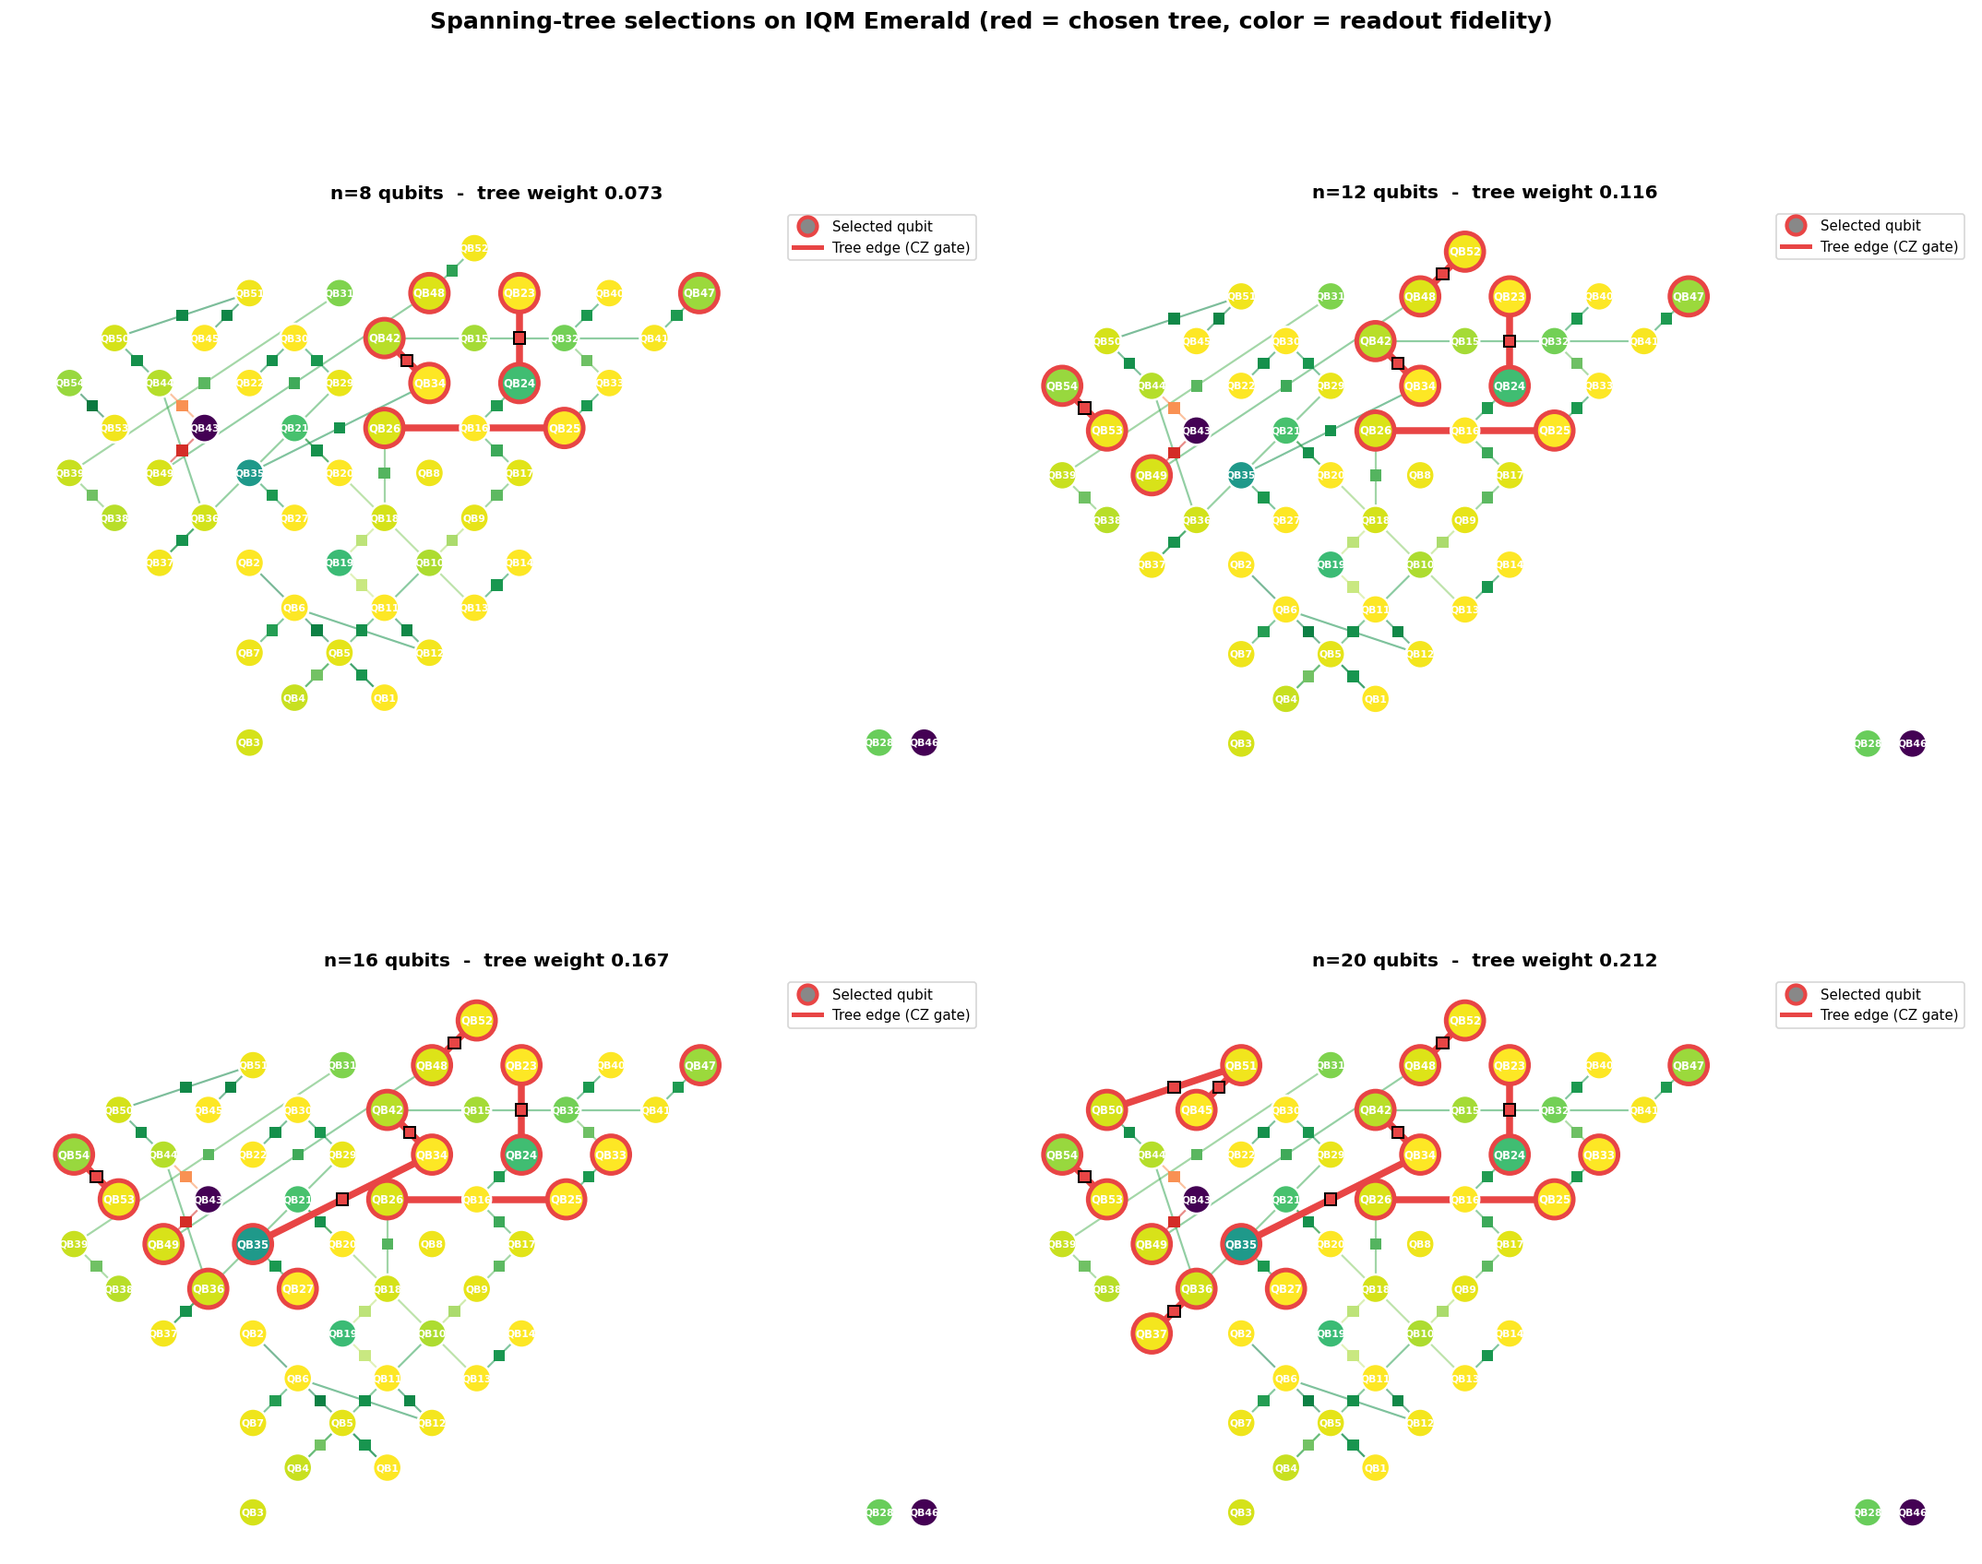
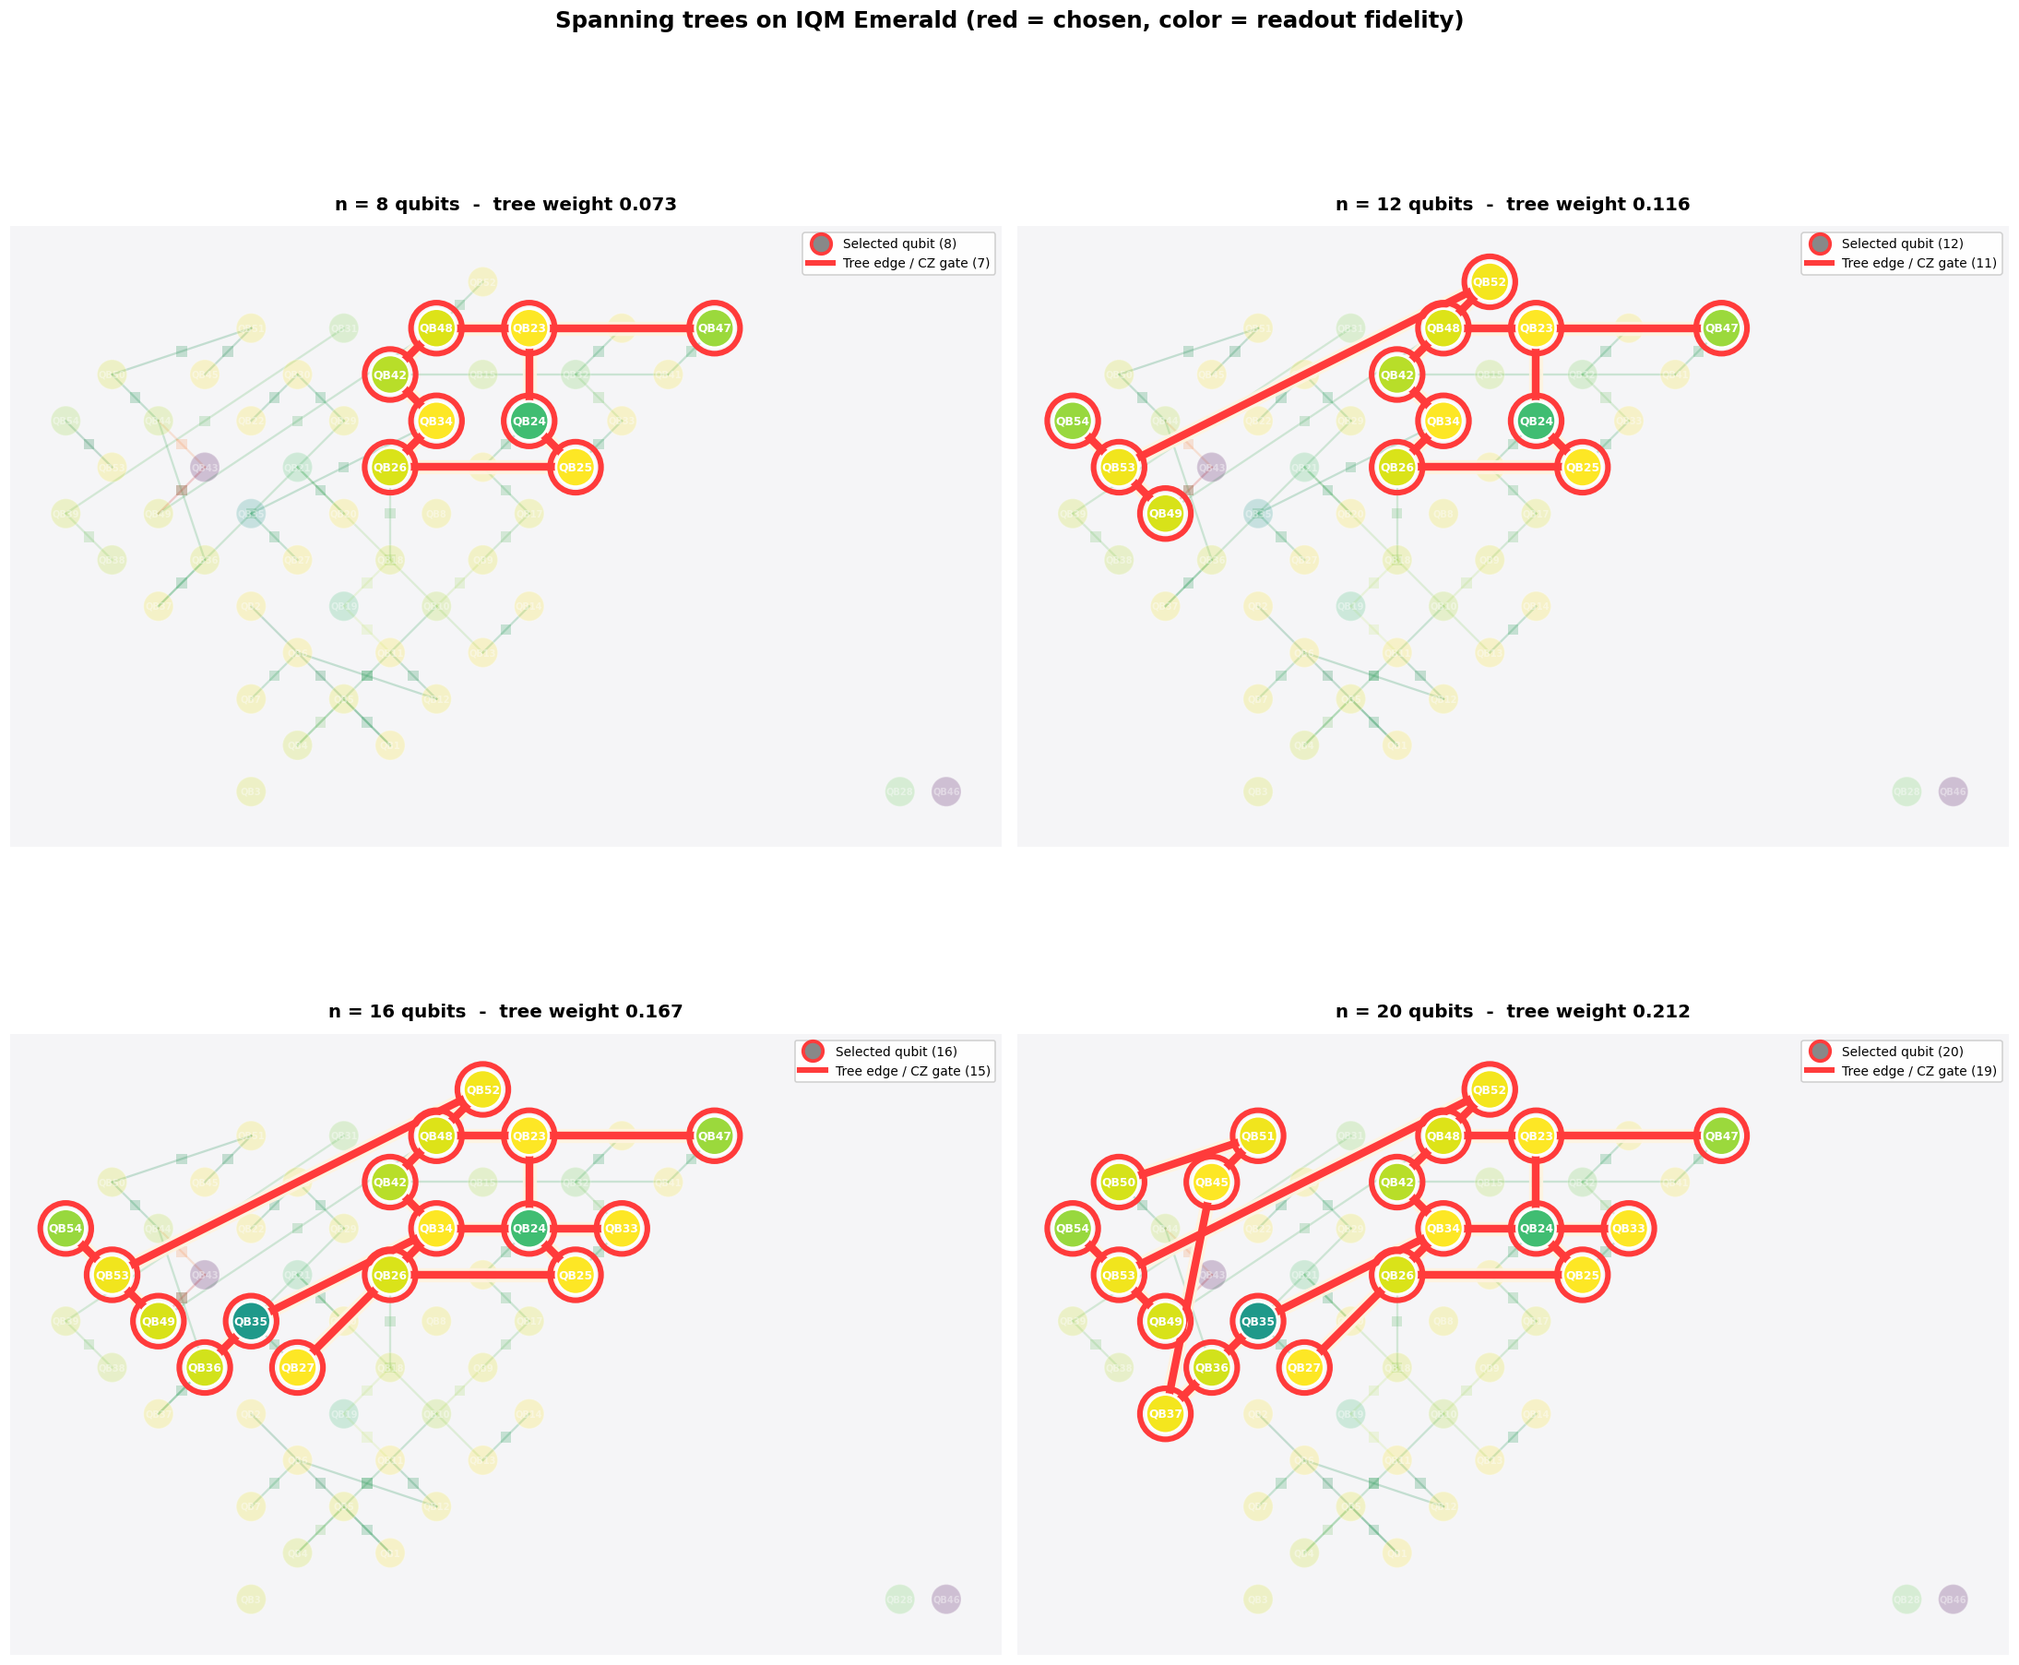
Improve topology viz: spotlight effect + scaling animation
src/visualization.py changes:
- Spotlight mode: fade unselected qubits/edges to alpha 0.22 so the
  highlighted tree stands out as a clearly connected structure
- Tree edges drawn with white halo + bright red core, layered above
  background via zorder, eliminating visual confusion about connectivity
- Highlighted qubits get a red ring + colored disc (instead of a thin border)
- New animate_tree_growth(): builds a GIF iterating over n values, showing
  how the chosen spanning tree grows on the device topology

Generated artifacts:
- experiments/gme_tree_topology.png: 2x2 static panel for n=8/12/16/20
- experiments/gme_tree_growth.gif: animation across n=4..24

diff --git a/src/visualization.py b/src/visualization.py
@@ -1,30 +1,27 @@
 """IQM-Resonance-style topology visualization.
 
-Colors qubits by a chosen metric (T1, T2, readout fidelity, 1Q fidelity).
-Highlights a chosen subset (the tree we picked) and the edges of the chosen
-graph state.
+Two main entry points:
+  - plot_device_topology(...)       static plot, optionally with a tree highlighted
+  - animate_tree_growth(...)        GIF showing how the chosen tree scales with n
 """
 
 from __future__ import annotations
+
+from collections import deque
 
 import matplotlib.pyplot as plt
 import matplotlib.patches as patches
 from matplotlib.lines import Line2D
 import numpy as np
-import rustworkx as rx
 
 
-# Hardcoded IQM Emerald qubit positions (54 qubits) — derived from a BFS over
-# the device coupling graph using diamond-grid offsets, with collision-aware
-# backtracking. Yields the rotated-square-lattice layout you see on the IQM
-# Resonance dashboard. Coordinates are in arbitrary units.
+# ---------- layout ----------
+
 def _device_layout(backend) -> dict[int, tuple[float, float]]:
-    """2D coordinates per qubit, computed once via a smart BFS that maps the
-    bipartite topology to a diamond grid. Each placed qubit's neighbours are
-    tried in 4 directions (NE, NW, SE, SW); we pick the direction that
-    minimises future placement conflicts (most-degrees-first heuristic).
+    """BFS-diamond layout: place qubits on a 45°-rotated grid by walking the
+    bipartite coupling graph and assigning (±1, ±1) offsets to each new
+    neighbour. Produces a clean planar embedding similar to the IQM dashboard.
     """
-    from collections import deque
     coupling: list[tuple[int, int]] = []
     seen: set[tuple[int, int]] = set()
     for a, b in backend.coupling_map:
@@ -44,7 +41,6 @@ def _device_layout(backend) -> dict[int, tuple[float, float]]:
 
     DIRS = [(1, 1), (-1, 1), (-1, -1), (1, -1)]   # NE, NW, SW, SE
 
-    # Start from a high-degree central qubit so the layout grows in all directions.
     start = max(adj, key=lambda x: len(adj[x]))
     pos: dict[int, tuple[int, int]] = {start: (0, 0)}
     used: set[tuple[int, int]] = {(0, 0)}
@@ -53,7 +49,6 @@ def _device_layout(backend) -> dict[int, tuple[float, float]]:
     while q:
         u = q.popleft()
         ux, uy = pos[u]
-        # Place each unplaced neighbour: pick first free diamond offset.
         for v in sorted(adj[u], key=lambda x: -len(adj.get(x, []))):
             if v in pos:
                 continue
@@ -66,7 +61,7 @@ def _device_layout(backend) -> dict[int, tuple[float, float]]:
                 q.append(v)
                 break
             else:
-                # All 4 diamond slots occupied — extend further out.
+                # All 4 diamond slots taken; spiral outwards
                 for r in range(2, 8):
                     placed = False
                     for dx, dy in [(r, 0), (-r, 0), (0, r), (0, -r),
@@ -81,10 +76,8 @@ def _device_layout(backend) -> dict[int, tuple[float, float]]:
                     if placed:
                         break
 
-    # Place any qubits not in the BFS-reached component (isolated/dangling).
     placed_set = set(pos.keys())
     isolated = [i for i in range(backend.num_qubits) if i not in placed_set]
-    # Find the bounding box of placed qubits
     if placed_set:
         max_x = max(p[0] for p in pos.values())
         for i, q_node in enumerate(isolated):
@@ -93,9 +86,36 @@ def _device_layout(backend) -> dict[int, tuple[float, float]]:
         for i, q_node in enumerate(isolated):
             pos[q_node] = (i, 0)
 
-    # Convert to floats
     return {k: (float(v[0]), float(v[1])) for k, v in pos.items()}
 
+
+# ---------- color helpers ----------
+
+def _color_for_metric(value: float | None, metric: str) -> tuple:
+    """Map a metric value to a viridis color. Returns gray if missing."""
+    if value is None:
+        return (0.8, 0.8, 0.8, 1.0)
+    if metric == "readout_fidelity":
+        norm = (value - 0.85) / 0.14
+    elif metric == "one_q_fidelity":
+        norm = (value - 0.99) / 0.01
+    elif metric == "t1":
+        norm = min((value * 1e6 - 5) / 95, 1.0)
+    elif metric == "t2":
+        norm = min((value * 1e6 - 1) / 49, 1.0)
+    else:
+        norm = float(value)
+    norm = max(0.0, min(1.0, norm))
+    return plt.cm.viridis(norm)
+
+
+def _cz_color(fid: float | None) -> tuple:
+    if fid is None:
+        return (0.78, 0.78, 0.78, 1.0)
+    return plt.cm.RdYlGn(max(0.0, min(1.0, (fid - 0.85) / 0.15)))
+
+
+# ---------- main static plot ----------
 
 def plot_device_topology(
     backend,
@@ -108,13 +128,11 @@ def plot_device_topology(
     ax=None,
     show_labels: bool = True,
     pos: dict[int, tuple[float, float]] | None = None,
+    spotlight: bool = True,
 ):
-    """Plot device topology in the IQM dashboard style.
+    """Render the device topology with an optional sub-tree highlighted.
 
-    metrics: per-qubit metrics from get_qubit_metrics; coloring uses metrics[i][color_by].
-    cz_fidelities: per-pair fidelity, used to color edge diamonds.
-    highlight_qubits: bigger marker + bold border.
-    highlight_edges: (a, b) physical edges drawn thicker and in red.
+    spotlight: if True, dim non-selected qubits/edges so the tree pops.
     """
     if pos is None:
         pos = _device_layout(backend)
@@ -124,96 +142,150 @@ def plot_device_topology(
         fig = ax.figure
 
     n = backend.num_qubits
-    highlight_qubits = set(highlight_qubits or [])
-    highlight_edge_set = {(min(a, b), max(a, b)) for a, b in (highlight_edges or [])}
+    hi_qubits = set(highlight_qubits or [])
+    hi_edges = {(min(a, b), max(a, b)) for a, b in (highlight_edges or [])}
+    has_highlights = bool(hi_qubits or hi_edges)
 
-    # --- edges ---
+    bg_alpha = 0.22 if (spotlight and has_highlights) else 0.65
+
+    # --- Layer 1: dim background edges ---
     for a, b in backend.coupling_map:
-        if a >= b:  # undirected, plot once
+        if a >= b:
             continue
         x1, y1 = pos[a]
         x2, y2 = pos[b]
         e = (a, b)
-
-        # Edge color based on CZ fidelity (or default gray)
-        if cz_fidelities and e in cz_fidelities:
-            cz_f = cz_fidelities[e]
-            edge_color = plt.cm.RdYlGn((cz_f - 0.85) / 0.15)  # 0.85→red, 1.0→green
-        else:
-            edge_color = "#cccccc"
-
-        is_highlight = e in highlight_edge_set
-        ax.plot([x1, x2], [y1, y2],
-                color="#e84545" if is_highlight else edge_color,
-                linewidth=4.5 if is_highlight else 1.3,
-                zorder=2 if is_highlight else 1,
-                alpha=1.0 if is_highlight else 0.55)
-
-        # Diamond mid-marker (IQM dashboard style)
+        if e in hi_edges:
+            continue   # drawn later in the highlight layer
+        col = _cz_color(cz_fidelities.get(e) if cz_fidelities else None)
+        ax.plot([x1, x2], [y1, y2], color=col, linewidth=1.5,
+                alpha=bg_alpha, zorder=1)
+        # tiny diamond mid-marker
         mx, my = (x1 + x2) / 2, (y1 + y2) / 2
-        diamond_color = edge_color if not is_highlight else "#e84545"
-        diamond = patches.RegularPolygon(
-            (mx, my), 4, radius=0.18, orientation=np.pi/4,
-            facecolor=diamond_color,
-            edgecolor="black" if is_highlight else "none",
-            linewidth=1.2 if is_highlight else 0,
-            zorder=3 if is_highlight else 2)
-        ax.add_patch(diamond)
+        d = patches.RegularPolygon((mx, my), 4, radius=0.16,
+                                    orientation=np.pi/4,
+                                    facecolor=col, edgecolor='none',
+                                    alpha=bg_alpha, zorder=2)
+        ax.add_patch(d)
 
-    # --- nodes ---
+    # --- Layer 2: dim background nodes ---
     for i in range(n):
+        if i in hi_qubits:
+            continue
         x, y = pos[i]
-        # Color by chosen metric
-        color = "#cccccc"
-        if metrics and i in metrics:
-            v = metrics[i].get(color_by)
-            if v is not None:
-                # Map color_by-specific range to [0,1]
-                if color_by == "readout_fidelity":
-                    norm = (v - 0.85) / 0.14   # 0.85 red → 0.99 green
-                elif color_by == "one_q_fidelity":
-                    norm = (v - 0.99) / 0.01
-                elif color_by == "t1":
-                    norm = min((v * 1e6 - 5) / 95, 1.0)   # 5µs red → 100µs green
-                elif color_by == "t2":
-                    norm = min((v * 1e6 - 1) / 49, 1.0)   # 1µs red → 50µs green
-                else:
-                    norm = min(max(float(v), 0), 1)
-                norm = max(0.0, min(1.0, norm))
-                color = plt.cm.viridis(norm)
-
-        is_highlight = i in highlight_qubits
-        size = 0.42 if is_highlight else 0.32
-        circle = patches.Circle(
-            (x, y), radius=size,
-            facecolor=color,
-            edgecolor="#e84545" if is_highlight else "white",
-            linewidth=3 if is_highlight else 1.5,
-            zorder=5)
+        col = _color_for_metric(
+            metrics.get(i, {}).get(color_by) if metrics else None, color_by)
+        circle = patches.Circle((x, y), radius=0.32, facecolor=col,
+                                 edgecolor='white', linewidth=1.0,
+                                 alpha=bg_alpha, zorder=3)
         ax.add_patch(circle)
-
         if show_labels:
-            ax.text(x, y, f"QB{i+1}", ha="center", va="center",
-                    fontsize=7 if is_highlight else 6.5,
-                    color="white", fontweight="bold", zorder=6)
+            ax.text(x, y, f"QB{i+1}", ha='center', va='center',
+                    fontsize=6.5, color='white', alpha=bg_alpha + 0.2,
+                    fontweight='bold', zorder=4)
 
-    ax.set_aspect("equal")
+    # --- Layer 3: highlighted edges (tree) ---
+    for (a, b) in hi_edges:
+        if a not in pos or b not in pos:
+            continue
+        x1, y1 = pos[a]
+        x2, y2 = pos[b]
+        # outer halo
+        ax.plot([x1, x2], [y1, y2], color='#fff4e0', linewidth=10,
+                alpha=0.9, zorder=10, solid_capstyle='round')
+        # bright inner line
+        ax.plot([x1, x2], [y1, y2], color='#ff3b3b', linewidth=5.5,
+                zorder=11, solid_capstyle='round')
+
+    # --- Layer 4: highlighted nodes ---
+    for i in hi_qubits:
+        x, y = pos[i]
+        col = _color_for_metric(
+            metrics.get(i, {}).get(color_by) if metrics else None, color_by)
+        # outer halo
+        ax.add_patch(patches.Circle((x, y), radius=0.55,
+                                     facecolor='none', edgecolor='#ff3b3b',
+                                     linewidth=4, zorder=12))
+        # inner colored disc
+        ax.add_patch(patches.Circle((x, y), radius=0.42,
+                                     facecolor=col, edgecolor='white',
+                                     linewidth=1.8, zorder=13))
+        if show_labels:
+            ax.text(x, y, f"QB{i+1}", ha='center', va='center',
+                    fontsize=8, color='white', fontweight='bold', zorder=14)
+
+    # --- Frame ---
+    ax.set_aspect('equal')
     ax.set_xticks([]); ax.set_yticks([])
-    for s in ["top", "right", "left", "bottom"]:
+    for s in ['top', 'right', 'left', 'bottom']:
         ax.spines[s].set_visible(False)
-    if title:
-        ax.set_title(title, fontsize=12, fontweight="bold")
+    ax.set_facecolor('#f5f5f7')
 
-    # Legend
-    if highlight_qubits or highlight_edge_set:
-        legend_elems = []
-        if highlight_qubits:
-            legend_elems.append(Line2D([0], [0], marker="o", color="w",
-                markerfacecolor="#888", markeredgecolor="#e84545",
-                markeredgewidth=2.5, markersize=12, label="Selected qubit"))
-        if highlight_edge_set:
-            legend_elems.append(Line2D([0], [0], color="#e84545", linewidth=3,
-                                        label="Tree edge (CZ gate)"))
-        ax.legend(handles=legend_elems, loc="upper right", fontsize=9, frameon=True)
+    # Padding around content
+    if pos:
+        xs = [p[0] for p in pos.values()]
+        ys = [p[1] for p in pos.values()]
+        pad = 1.2
+        ax.set_xlim(min(xs) - pad, max(xs) + pad)
+        ax.set_ylim(min(ys) - pad, max(ys) + pad)
+
+    if title:
+        ax.set_title(title, fontsize=13, fontweight='bold', pad=12)
+
+    if has_highlights:
+        legend_elems = [
+            Line2D([0], [0], marker='o', color='w',
+                   markerfacecolor='#888', markeredgecolor='#ff3b3b',
+                   markeredgewidth=2.5, markersize=14, label=f'Selected qubit ({len(hi_qubits)})'),
+            Line2D([0], [0], color='#ff3b3b', linewidth=4,
+                   label=f'Tree edge / CZ gate ({len(hi_edges)})'),
+        ]
+        ax.legend(handles=legend_elems, loc='upper right', fontsize=9,
+                  frameon=True, facecolor='white', framealpha=0.95)
 
     return fig, ax
+
+
+# ---------- animation ----------
+
+def animate_tree_growth(
+    backend,
+    trees_by_n: dict[int, dict],
+    metrics: dict[int, dict] | None = None,
+    cz_fidelities: dict[tuple[int, int], float] | None = None,
+    out_path: str = "gme_tree_growth.gif",
+    color_by: str = "readout_fidelity",
+    interval_ms: int = 1100,
+    title_prefix: str = "IQM Emerald — optimal spanning tree",
+):
+    """Build a GIF showing the chosen tree at each n in ascending order.
+
+    trees_by_n: dict of {n: tree_dict_from_select_best_tree}.
+    Saves to `out_path` (PIL writer). Returns the saved path.
+    """
+    import matplotlib.animation as animation
+
+    pos = _device_layout(backend)
+    sorted_ns = sorted(trees_by_n.keys())
+
+    fig, ax = plt.subplots(figsize=(11, 11))
+
+    def draw_frame(n_value: int):
+        ax.clear()
+        t = trees_by_n[n_value]
+        plot_device_topology(
+            backend, metrics=metrics, cz_fidelities=cz_fidelities,
+            color_by=color_by,
+            highlight_qubits=t['qubits'],
+            highlight_edges=t['edges'],
+            title=f'{title_prefix} — n = {n_value} qubits  (tree weight {t["weight"]:.3f})',
+            ax=ax, pos=pos, show_labels=True,
+            spotlight=True,
+        )
+
+    anim = animation.FuncAnimation(
+        fig, draw_frame, frames=sorted_ns, interval=interval_ms, repeat=True,
+    )
+    anim.save(out_path, writer=animation.PillowWriter(fps=max(1, 1000 // interval_ms)))
+    plt.close(fig)
+    return out_path
